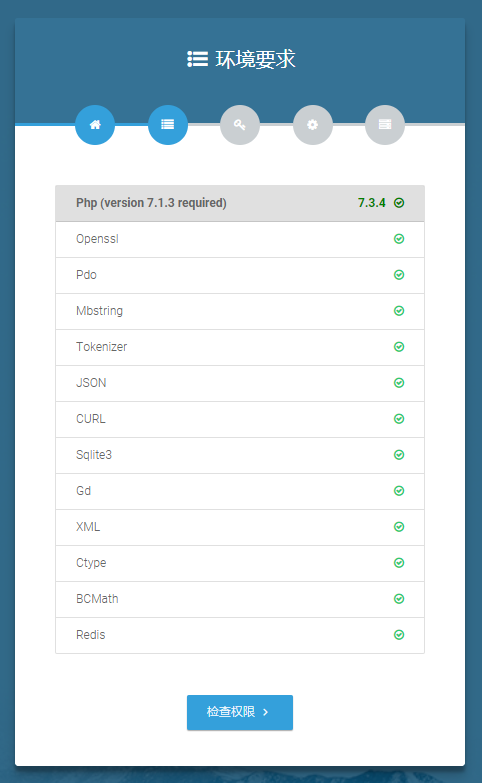
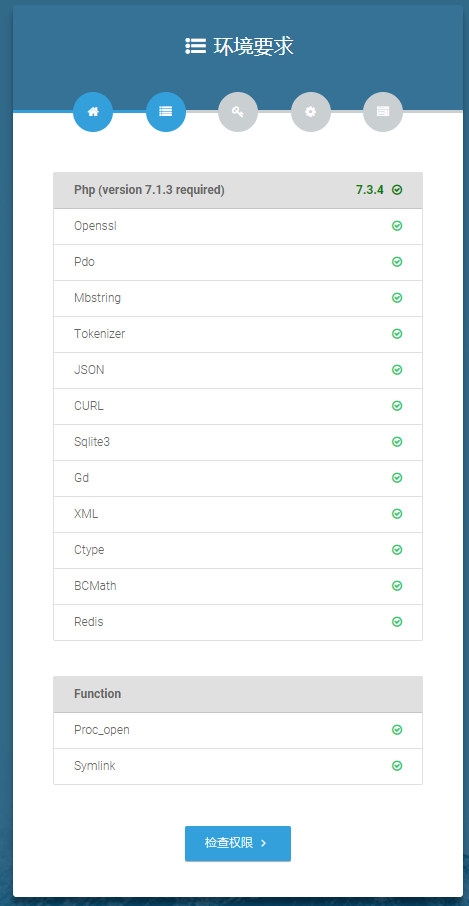
update docs

Changed region(s): [[0.0299, 0.0307, 1.0, 1.0]]

diff --git a/resources/docs/1.6/setup.md b/resources/docs/1.6/setup.md
@@ -54,24 +54,22 @@ composer create-project flex/blog xxx.com
 点击【检查运行环境】按钮进入下一步  
 ![安装环境检查](/images/docs/install-2.png)  
 如果满足要求点击【检查权限】进入下一步，如果部分扩展没有安装请参考上一节安装对应扩展。  
+如果函数被禁用了，请修改php.ini解除对该函数禁用。  
 ![安装权限检查](/images/docs/install-3.png)  
 如果满足上述目录对应权限点击【环境设置】进入下一步，不满足请更改上述目录权限。  
 ![安装环境设置](/images/docs/install-4.png)  
 这里有两种方式进行设置，一般点击【通过表单设置】即可，【使用文本编辑】是为开发者或对Laravel熟悉的用户提供的。  
 ![安装配置表单](/images/docs/install-5.png)  
-博客名称和域名填写为你自己的。应用模式、应用调试、应用记录等级默认即可(安装运行一段时间没问题再改为生成模式关闭调试)  
+【博客网址】系统会默认填写您当前访问的域名，一般来说无需改动。  
+然后再分别设置好【用户名】和【邮箱】和【密码】即可。   
 ![安装配置数据库](/images/docs/install-6.png)  
 将上面保存的数据库信息填入此处。  
 ![安装应用配置](/images/docs/install-7.png)  
-【广播、缓存、Session、队列】这里无需改动。  
-【Redis驱动】默认也是不需要改动的。  
-【邮件】也可以先跳过或者参考[邮件配置](/{{route}}/{{version}}/config#mail)(安装完成后后台可以进行修改)  
+然后在填写Redis配置信息，填写完毕后点击【安装】稍等片刻后。  
 ![安装完成](/images/docs/install-8.png)  
-到这里离安装完成就只差一步了，拉到页面最底部点击【设置管理员账号】。  
-![设置管理员账号](/images/docs/install-9.png)  
-填写好信息点击【完成设置】  
-至此, 安装完成 ^_^。
+至此, 安装已完成 ^_^。
 
+> {info} 安装完毕后请使用管理员账号登录，进入后台配置站点名称、关键词、备案号、邮件服务器等信息。具体请查看[系统管理](/{{route}}/{{version}}/system)文档进行配置。
 
 
 
